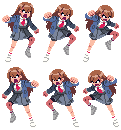
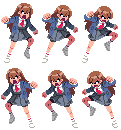
스쿨걸,치어걸 내용수정
행동패턴추가 및 스쿨걸이미지수정

diff --git a/RiverCityGirls/schoolBoy.cpp b/RiverCityGirls/schoolBoy.cpp
@@ -174,10 +174,11 @@ void SchoolBoy::update()
 
 void SchoolBoy::render()
 {
-	
+	/*
 	_enemyImg->setScale(3.f);
 	
 	CAMERA_MANAGER->aniRenderZ(_enemyImg, _position, _size, _ani, true);
+	*/
 	/*
 	//test
 	char str[255];
